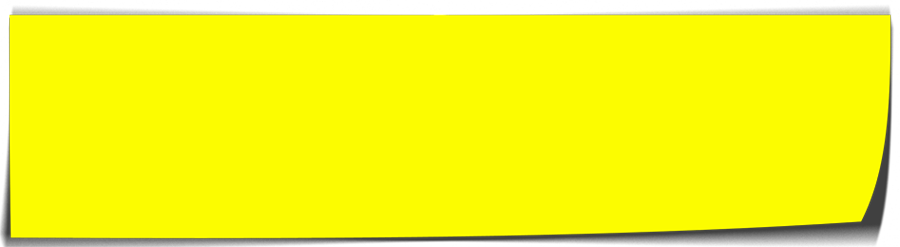
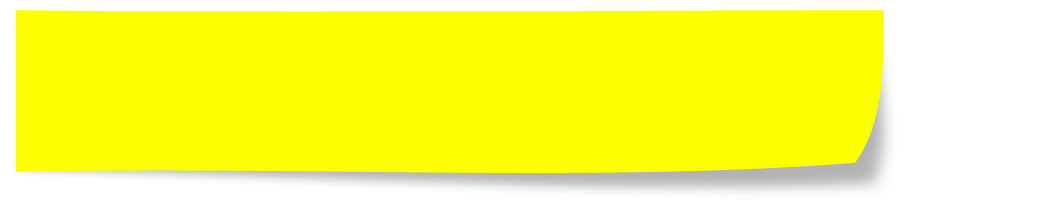
better styling

Changed region(s): [[0.0, 0.03, 0.9956, 1.0]]

diff --git a/app/webroot/css/noteslide.css b/app/webroot/css/noteslide.css
@@ -23,6 +23,10 @@ a:hover{
 	background-image: url("../img/topmenubg.png");
 	padding-left: 15%;
 	padding-right: 15%;
+	position:fixed;
+	top:0;
+	left:0;
+	right:0;
 }
 
 .topmenu a{
@@ -112,6 +116,7 @@ a:hover{
 .content{
 	min-height: 500px;
 	padding: 5px;
+	margin-top: 50px;
 	margin-bottom: 100px;
 }
 
@@ -119,7 +124,7 @@ a:hover{
 .note{
 	background-image:url('../img/postitbg.png');
 	width: 875px;
-	height: 220px;
+	height: 175px;
 	padding-left: 25px;
 	padding-top: 30px;
 }

diff --git a/app/views/layouts/default.html.php b/app/views/layouts/default.html.php
@@ -11,7 +11,7 @@
 <head>
 	<?php echo $this->html->charset();?>
 	<title>Application &gt; <?php echo $this->title(); ?></title>
-	<?php echo $this->html->script(array('jquery-1.7', 'popup')); ?>
+	<?php echo $this->html->script(array('jquery-1.7', 'popup', 'togglefunctions')); ?>
 	<?php echo $this->html->style(array('noteslide','testlogin', 'fonts')); ?>
 	<?php echo $this->html->link('Icon', null, array('type' => 'icon')); ?>
 </head>
@@ -33,10 +33,22 @@
 			<div class="introtext">
 				<h1>Welcome to NoteSlide</h1>
 				<h3>Choose your Uni to Browse notes, or Register to add notes</h3>
-					<ul class="unilist">
-						<li><a href="#">Cardiff University</a></li>
-						<li><a href="#">Swansea University</a></li>
+				<ul id="postselector">
+					<li id="listall">List All</li>
+					<li id="bygroup"><a href="#" onClick="toggleGroups()">By Group</a></li>
+					<ul id="groups">
+						<li id="g1">Group 1</li>
+						<li id="g2">Group 2</li>
+						<li id="g3">Group 3</li>
 					</ul>
+					<li id="bylocation" onclick="toggleLocations()">By Location</li>
+					<ul id="locations">
+						<li id="l1">Location 1</li>
+						<li id="l2">Location 2</li>
+						<li id="l3">Location 3</li>
+					</ul>
+					
+				</ul>
 			</div>
 			<div class="bottomtear"></div>
 		</div>
